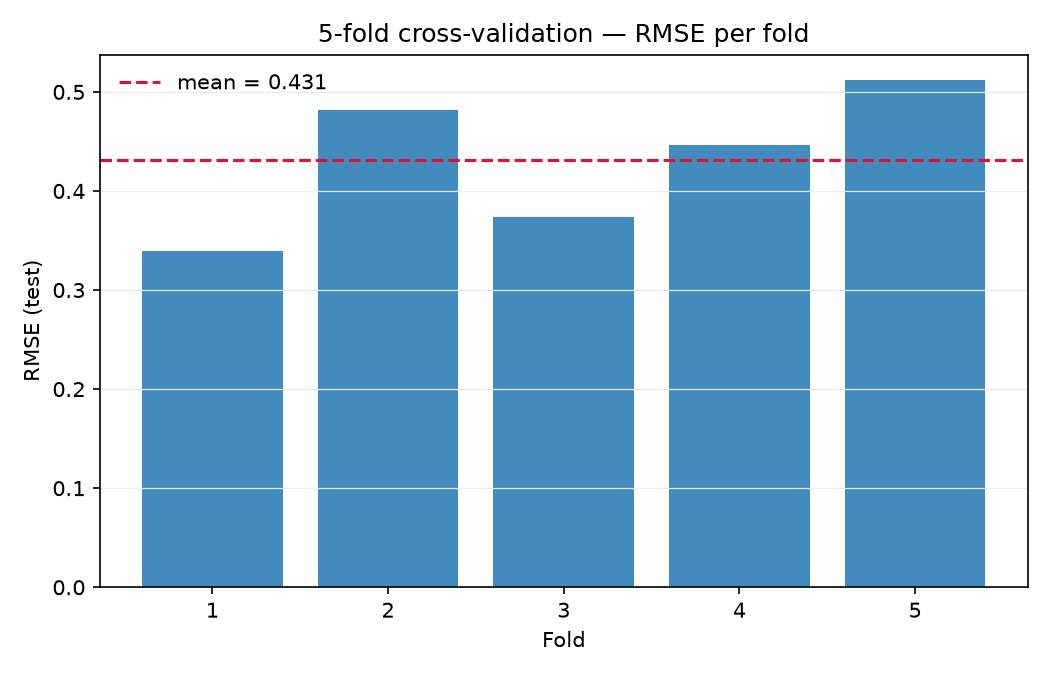
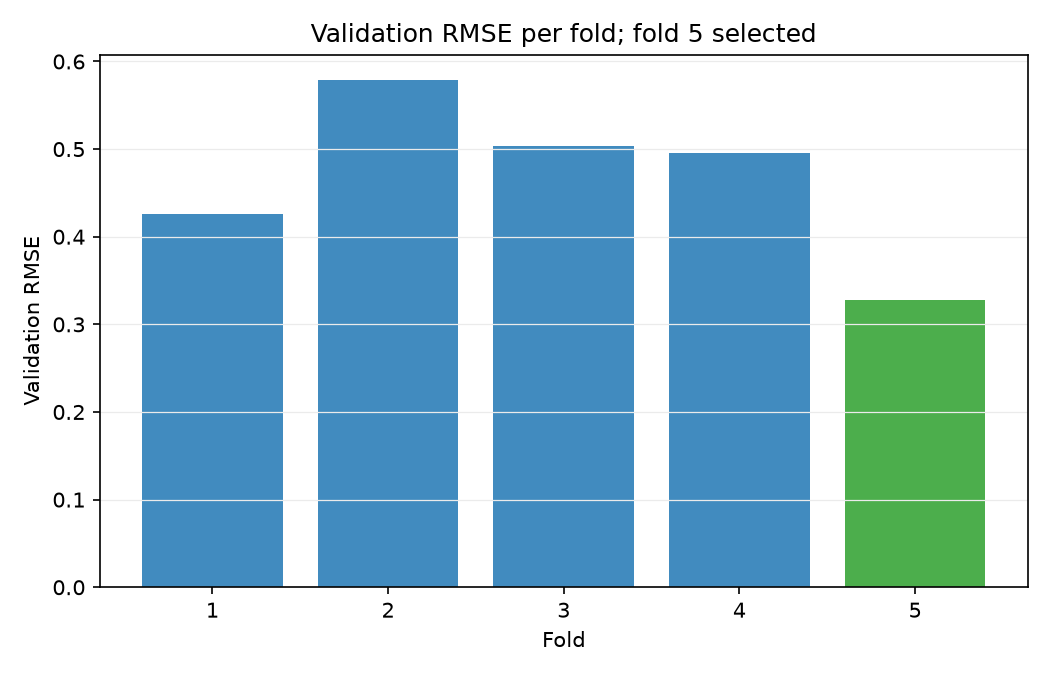
Update k-fold outputs: remove baseline and holdout line, add real vs predicted plot

diff --git a/scripts/train_model_kfold.py b/scripts/train_model_kfold.py
@@ -1,4 +1,12 @@
-"""Evaluate the linear model with 5-fold cross-validation.
+"""Evaluate the linear model with a holdout set plus 5-fold cross-validation.
+
+Procedure:
+  1. Hold out 20% of the signals as a final test set.
+  2. Split the remaining 80% into 5 folds.
+  3. Train 5 times: 4 folds train, 1 fold validates.
+  4. Select the fold with the lowest validation RMSE.
+  5. Evaluate that model on the untouched 20%.
+  6. Report those RMSE and R2 values as the results.
 
 Run from the project root:
     py scripts/train_model_kfold.py
@@ -22,56 +30,103 @@ from model import cross_validate, load_dataset
 def main() -> None:
     parser = argparse.ArgumentParser()
     parser.add_argument("--n-splits", type=int, default=5,
-                        help="Number of folds (default: 5).")
+                        help="Number of folds on the 80 percent pool (default: 5).")
+    parser.add_argument("--holdout-size", type=float, default=0.20,
+                        help="Fraction held out as the final test set (default: 0.20).")
+    parser.add_argument("--random-state", type=int, default=42,
+                        help="Seed for a reproducible holdout and fold split.")
     parser.add_argument("--output-dir", default="reports/kfold",
-                        help="Where to save metrics and the fold plot.")
+                        help="Where to save metrics and the plots.")
     args = parser.parse_args()
 
     df = load_dataset("features/dataset.csv")
-    # Run k-fold cross-validation; fixed seed for reproducibility
-    cv = cross_validate(df, n_splits=args.n_splits, random_state=42)
+    # Run the full procedure: holdout, folds, best-fold selection, final scoring
+    cv = cross_validate(
+        df,
+        n_splits=args.n_splits,
+        holdout_size=args.holdout_size,
+        random_state=args.random_state,
+    )
 
-    # Build the metrics report line by line
+    # Build the report line by line
     lines = [
-        f"{args.n_splits}-fold cross-validation  (n = {len(df)} signals)",
-        "-" * 48,  # separator rule
-        "Per-fold results:",
+        f"{args.n_splits}-fold with holdout  (n = {len(df)} signals)",
+        "=" * 52,
+        f"pool used for folds: {cv['n_pool']} signals",
+        f"final holdout set:   {cv['n_holdout']} signals (never seen)",
+        "",
+        "Validation results per fold:",
     ]
-    # One line per fold: its RMSE and R2
-    for i, (r, r2) in enumerate(zip(cv["fold_rmse"], cv["fold_r2"]), start=1):
-        lines.append(f"  fold {i}:  RMSE = {r:.4f}   R2 = {r2:.4f}")
-    # Then the aggregate: mean +/- standard deviation across folds
+    # One line per fold; mark the selected one
+    for i, (r, r2, n_val) in enumerate(
+        zip(cv["fold_rmse"], cv["fold_r2"], cv["fold_n_val"]), start=1
+    ):
+        marker = "  <= best" if i == cv["best_fold"] else ""
+        lines.append(f"  fold {i} (val n={n_val}):  RMSE = {r:.4f}   R2 = {r2:.4f}{marker}")
+
+    # The selected model and its final scores on the untouched holdout
     lines += [
         "",
-        f"RMSE:  {cv['rmse_mean']:.4f}  ±  {cv['rmse_std']:.4f}",
-        f"R^2 :  {cv['r2_mean']:.4f}  ±  {cv['r2_std']:.4f}",
+        f"Selected fold: {cv['best_fold']} (lowest validation RMSE)",
+        f"fitted:  annoyance = {cv['slope']:.6f} * freq + {cv['intercept']:.4f}",
+        "",
+        "FINAL RESULTS on the held-out 20 percent:",
+        f"  RMSE:      {cv['holdout_rmse']:.4f}",
+        f"  R^2 :      {cv['holdout_r2']:.4f}",
     ]
     report = "\n".join(lines)
     print(report)
 
-    # Save the report to metrics.txt, creating the folder if needed
+    # Save the report, creating the output folder if needed
     out_dir = Path(args.output_dir)
     out_dir.mkdir(parents=True, exist_ok=True)
     (out_dir / "metrics.txt").write_text(report + "\n", encoding="utf-8")
 
-    # bar chart of per-fold RMSE with the mean line
-    folds = list(range(1, args.n_splits + 1))  # x-axis: fold numbers
+    # Plot 1: bar chart of validation RMSE per fold; selected fold highlighted
+    folds = list(range(1, args.n_splits + 1))
+    colors = ["tab:blue"] * args.n_splits
+    colors[cv["best_fold"] - 1] = "tab:green"  # highlight the chosen fold
+
     fig, ax = plt.subplots(figsize=(7, 4.5))
-    ax.bar(folds, cv["fold_rmse"], color="tab:blue", alpha=0.85)  # one bar per fold
-    # Dashed red line marks the mean RMSE across folds
-    ax.axhline(cv["rmse_mean"], color="crimson", linestyle="--",
-               label=f"mean = {cv['rmse_mean']:.3f}")
+    ax.bar(folds, cv["fold_rmse"], color=colors, alpha=0.85)
     ax.set_xlabel("Fold")
-    ax.set_ylabel("RMSE (test)")
-    ax.set_title(f"{args.n_splits}-fold cross-validation — RMSE per fold")
-    ax.set_xticks(folds)  # show every fold number on the axis
-    ax.legend(frameon=False)
+    ax.set_ylabel("Validation RMSE")
+    ax.set_title(f"Validation RMSE per fold; fold {cv['best_fold']} selected")
+    ax.set_xticks(folds)  # show every fold number
     ax.grid(True, axis="y", color="0.92", linewidth=0.6)
     fig.tight_layout()
     fig.savefig(out_dir / "kfold_rmse.png", dpi=150)
+    plt.close(fig)
+
+    # Plot 2: real vs predicted annoyance on the holdout signals
+    x = cv["X_holdout"].ravel()    # mean frequency of each holdout signal
+    y_true = cv["y_holdout"]       # real annoyance
+    y_pred = cv["y_pred_holdout"]  # prediction from the selected model
+
+    fig, ax = plt.subplots(figsize=(8, 5.5))
+    # Vertical grey line per point: shows the residual (real vs predicted gap)
+    for xi, yt, yp in zip(x, y_true, y_pred):
+        ax.plot([xi, xi], [yt, yp], color="0.8", linewidth=0.8, zorder=1)
+
+    # Black dots: real annoyance; blue dots: predictions (drawn on top)
+    ax.scatter(x, y_true, color="black", s=40, zorder=3,
+               label="Real annoyance (y)")
+    ax.scatter(x, y_pred, color="tab:blue", s=40, zorder=3,
+               label="Predicted annoyance")
+
+    ax.set_xlabel("Mean frequency (Hz)")
+    ax.set_ylabel("Annoyance (0-5)")
+    ax.set_title(f"Real vs. predicted annoyance : holdout set (fold {cv['best_fold']})")
+    ax.legend(frameon=False)
+    ax.grid(True, color="0.92", linewidth=0.6)
+    fig.tight_layout()
+    fig.savefig(out_dir / "actual_vs_predicted_holdout.png", dpi=150)
+    plt.close(fig)
 
     # Report where the outputs were written
-    print(f"\nSaved:\n  {out_dir / 'metrics.txt'}\n  {out_dir / 'kfold_rmse.png'}")
+    print(f"\nSaved:\n  {out_dir / 'metrics.txt'}"
+          f"\n  {out_dir / 'kfold_rmse.png'}"
+          f"\n  {out_dir / 'actual_vs_predicted_holdout.png'}")
 
 
 # Only run when executed directly, not when imported

diff --git a/src/model.py b/src/model.py
@@ -123,43 +123,76 @@ def make_plots(df: pd.DataFrame, res: dict, out_dir: str | Path) -> list[Path]:
 def cross_validate(
     df,
     n_splits: int = 5,
+    holdout_size: float = 0.20,
     random_state: int = 42,
 ):
-    """Run k-fold cross-validation of the single-feature linear model.
+    """Hold out a final test set, run k-fold on the rest, keep the best fold.
 
-    Shuffles the data (fixed seed) and rotates through n_splits folds, so every
-    signal is in the test fold exactly once. Returns per-fold RMSE and R2 plus
-    their mean and standard deviation.
+    Procedure:
+      1. Set aside holdout_size of the signals as a final test set; it is never
+         used for training or for choosing a model.
+      2. Split the remaining signals into n_splits folds.
+      3. Train n_splits times: 4 folds train, 1 fold validates each time.
+      4. Select the fold with the LOWEST validation RMSE.
+      5. Evaluate that selected model on the untouched holdout set.
+      6. The holdout scores are the reported results.
     """
     import numpy as np
     from sklearn.linear_model import LinearRegression
     from sklearn.metrics import mean_squared_error, r2_score
-    from sklearn.model_selection import KFold
+    from sklearn.model_selection import KFold, train_test_split
 
     X = df[[FEATURE_COL]].to_numpy()
     y = df[TARGET_COL].to_numpy()
 
-    # Shuffle then split into n_splits folds; fixed seed for reproducibility
+    # Step 1: separate the final test set from the pool used for k-fold
+    X_pool, X_holdout, y_pool, y_holdout = train_test_split(
+        X, y, test_size=holdout_size, random_state=random_state
+    )
+
+    # Step 2: shuffle the pool then divide it into n_splits folds
     kf = KFold(n_splits=n_splits, shuffle=True, random_state=random_state)
 
-    fold_rmse = []
-    fold_r2 = []
-    # Each pass: train on 4 folds, test on the held-out fold
-    for train_idx, test_idx in kf.split(X):
-        model = LinearRegression().fit(X[train_idx], y[train_idx])
-        y_hat = model.predict(X[test_idx])
-        fold_rmse.append(float(np.sqrt(mean_squared_error(y[test_idx], y_hat))))
-        fold_r2.append(float(r2_score(y[test_idx], y_hat)))
+    fold_models = []   # the model trained in each fold
+    fold_rmse = []     # validation RMSE per fold
+    fold_r2 = []       # validation R2 per fold
+    fold_n_val = []    # size of each validation fold
 
-    fold_rmse = np.array(fold_rmse)
-    fold_r2 = np.array(fold_r2)
-    # Report each fold plus the mean (stable estimate) and std (spread across folds)
+    # Step 3: each pass trains on the other folds and validates on this one
+    for train_idx, val_idx in kf.split(X_pool):
+        model = LinearRegression().fit(X_pool[train_idx], y_pool[train_idx])
+        y_hat = model.predict(X_pool[val_idx])
+
+        fold_models.append(model)
+        fold_rmse.append(float(np.sqrt(mean_squared_error(y_pool[val_idx], y_hat))))
+        fold_r2.append(float(r2_score(y_pool[val_idx], y_hat)))
+        fold_n_val.append(int(len(val_idx)))
+
+    # Step 4: pick the fold with the lowest validation RMSE
+    best_index = int(np.argmin(fold_rmse))
+    best_model = fold_models[best_index]
+
+    # Step 5: score the selected model on the holdout it has never seen
+    y_hat_holdout = best_model.predict(X_holdout)
+    holdout_rmse = float(np.sqrt(mean_squared_error(y_holdout, y_hat_holdout)))
+    holdout_r2 = float(r2_score(y_holdout, y_hat_holdout))
+
+    # Step 6: return per-fold detail plus the reported holdout results
     return {
         "n_splits": n_splits,
-        "fold_rmse": fold_rmse.tolist(),
-        "fold_r2": fold_r2.tolist(),
-        "rmse_mean": float(fold_rmse.mean()),
-        "rmse_std": float(fold_rmse.std(ddof=1)),   # ddof=1: sample std (divide by k-1)
-        "r2_mean": float(fold_r2.mean()),
-        "r2_std": float(fold_r2.std(ddof=1)),
+        "X_holdout": X_holdout,          # holdout features, for plotting
+        "y_holdout": y_holdout,          # holdout true annoyance
+        "y_pred_holdout": y_hat_holdout, # holdout predictions
+        "n_pool": int(len(y_pool)),
+        "n_holdout": int(len(y_holdout)),
+        "fold_rmse": fold_rmse,
+        "fold_r2": fold_r2,
+        "fold_n_val": fold_n_val,
+        "best_fold": best_index + 1,          # 1-based for reporting
+        "best_fold_rmse": fold_rmse[best_index],
+        "best_fold_r2": fold_r2[best_index],
+        "slope": float(best_model.coef_[0]),      # a in y = a*x + b
+        "intercept": float(best_model.intercept_),  # b in y = a*x + b
+        "holdout_rmse": holdout_rmse,             # reported result
+        "holdout_r2": holdout_r2,                 # reported result
     }
